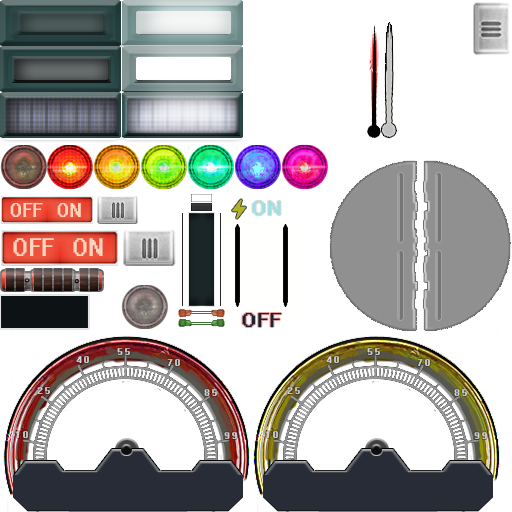
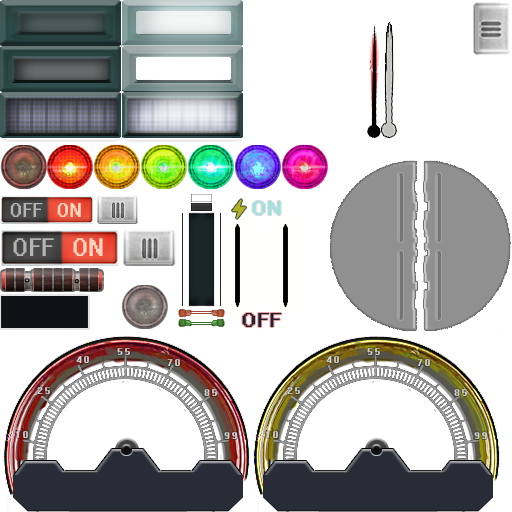
Changes to reactor interface to make it adapt better to different text lengths

Changed region(s): [[0.0, 0.375, 0.125, 0.5312]]

diff --git a/Barotrauma/BarotraumaClient/Source/Items/Components/Machines/Reactor.cs b/Barotrauma/BarotraumaClient/Source/Items/Components/Machines/Reactor.cs
@@ -110,8 +110,8 @@ namespace Barotrauma.Items.Components
             
             GUIFrame columnLeft = new GUIFrame(new RectTransform(new Vector2(0.2f, 1.0f), paddedFrame.RectTransform), style: null);
             leftHUDColumn = columnLeft;
-            GUIFrame columnMid = new GUIFrame(new RectTransform(new Vector2(0.45f, 1.0f), paddedFrame.RectTransform), style: null);
-            GUIFrame columnRight = new GUIFrame(new RectTransform(new Vector2(0.35f, 1.0f), paddedFrame.RectTransform), style: null);
+            GUIFrame columnMid = new GUIFrame(new RectTransform(new Vector2(0.5f, 1.0f), paddedFrame.RectTransform), style: null);
+            GUIFrame columnRight = new GUIFrame(new RectTransform(new Vector2(0.3f, 1.0f), paddedFrame.RectTransform), style: null);
 
             //----------------------------------------------------------
             //left column
@@ -136,6 +136,7 @@ namespace Barotrauma.Items.Components
                 btnText.SetTextPos();
                 warningButtons.Add(warningTexts[i], warningBtn);
             }
+            GUITextBlock.AutoScaleAndNormalize(warningButtons.Values.Select(b => b.TextBlock));
 
             inventoryContainer = new GUIFrame(new RectTransform(new Vector2(1.0f, 0.45f), columnLeft.RectTransform, Anchor.BottomLeft), style: null);
 
@@ -143,33 +144,37 @@ namespace Barotrauma.Items.Components
             //mid column
             //----------------------------------------------------------
             
-            criticalHeatWarning = new GUITickBox(new RectTransform(new Point(30, 30), columnMid.RectTransform),
+            criticalHeatWarning = new GUITickBox(new RectTransform(new Point(columnMid.Rect.Width / 3, 30), columnMid.RectTransform),
                 TextManager.Get("ReactorWarningCriticalTemp"), font: GUI.SmallFont, style: "IndicatorLightRed")
             {
                 CanBeFocused = false
             };
-            lowTemperatureWarning = new GUITickBox(new RectTransform(new Point(30, 30), columnMid.RectTransform) { RelativeOffset = new Vector2(0.3f, 0.0f) },
+            lowTemperatureWarning = new GUITickBox(new RectTransform(new Point(columnMid.Rect.Width / 3, 30), columnMid.RectTransform) { RelativeOffset = new Vector2(0.27f, 0.0f) },
                 TextManager.Get("ReactorWarningCriticalLowTemp"), font: GUI.SmallFont, style: "IndicatorLightRed")
             {
                 CanBeFocused = false
             };
-            criticalOutputWarning = new GUITickBox(new RectTransform(new Point(30, 30), columnMid.RectTransform) { RelativeOffset = new Vector2(0.75f, 0.0f) },
+            criticalOutputWarning = new GUITickBox(new RectTransform(new Point(columnMid.Rect.Width / 3, 30), columnMid.RectTransform) { RelativeOffset = new Vector2(0.66f, 0.0f) },
                 TextManager.Get("ReactorWarningCriticalOutput"), font: GUI.SmallFont, style: "IndicatorLightRed")
             {
                 CanBeFocused = false
             };
+
+            GUITextBlock.AutoScaleAndNormalize(criticalHeatWarning.TextBlock, lowTemperatureWarning.TextBlock, criticalOutputWarning.TextBlock);
+
+            float gaugeOffset = criticalHeatWarning.Rect.Height / (float)columnMid.Rect.Height + 0.05f;
             
-            new GUITextBlock(new RectTransform(new Vector2(0.5f, 0.05f), columnMid.RectTransform) { RelativeOffset = new Vector2(0.0f, 0.25f) },
+            new GUITextBlock(new RectTransform(new Vector2(0.5f, 0.05f), columnMid.RectTransform) { RelativeOffset = new Vector2(0.0f, gaugeOffset) },
                 TextManager.Get("ReactorFissionRate"));
-            new GUICustomComponent(new RectTransform(new Vector2(0.5f, 0.5f), columnMid.RectTransform) { RelativeOffset = new Vector2(0.0f, 0.3f) },
+            new GUICustomComponent(new RectTransform(new Vector2(0.5f, 0.5f), columnMid.RectTransform) { RelativeOffset = new Vector2(0.0f, gaugeOffset + 0.05f) },
                 DrawFissionRateMeter, null)
             {
                 ToolTip = TextManager.Get("ReactorTipFissionRate")
             };
 
-            new GUITextBlock(new RectTransform(new Vector2(0.5f, 0.05f), columnMid.RectTransform, Anchor.TopRight) { RelativeOffset = new Vector2(0.0f, 0.25f) },
+            new GUITextBlock(new RectTransform(new Vector2(0.5f, 0.05f), columnMid.RectTransform, Anchor.TopRight) { RelativeOffset = new Vector2(0.0f, gaugeOffset) },
                 TextManager.Get("ReactorTurbineOutput"));
-            new GUICustomComponent(new RectTransform(new Vector2(0.5f, 0.5f), columnMid.RectTransform, Anchor.TopRight) { RelativeOffset = new Vector2(0.0f, 0.3f) },
+            new GUICustomComponent(new RectTransform(new Vector2(0.5f, 0.5f), columnMid.RectTransform, Anchor.TopRight) { RelativeOffset = new Vector2(0.0f, gaugeOffset + 0.05f) },
                 DrawTurbineOutputMeter, null)
             {
                 ToolTip = TextManager.Get("ReactorTipTurbineOutput")
@@ -209,12 +214,13 @@ namespace Barotrauma.Items.Components
             //right column
             //----------------------------------------------------------
 
-            new GUITextBlock(new RectTransform(new Point(100, 20), columnRight.RectTransform), TextManager.Get("ReactorAutoTemp"))
+            new GUITextBlock(new RectTransform(new Vector2(0.7f, 0.1f), columnRight.RectTransform), TextManager.Get("ReactorAutoTemp"))
             {
-                ToolTip = TextManager.Get("ReactorTipAutoTemp")
+                ToolTip = TextManager.Get("ReactorTipAutoTemp"),
+                AutoScale = true
             };
-            autoTempSlider = new GUIScrollBar(new RectTransform(new Point(100, 30), columnRight.RectTransform) { AbsoluteOffset = new Point(0, 30) },
-                barSize: 0.5f, style: "OnOffSlider")
+            autoTempSlider = new GUIScrollBar(new RectTransform(new Vector2(0.6f, 0.15f), columnRight.RectTransform) { RelativeOffset = new Vector2(0.0f, 0.1f) },
+                barSize: 0.55f, style: "OnOffSlider")
             {
                 ToolTip = TextManager.Get("ReactorTipAutoTemp"),
                 IsBooleanSwitch = true,
@@ -226,8 +232,10 @@ namespace Barotrauma.Items.Components
                     return true;
                 }
             };
-            
-            onOffSwitch = new GUIScrollBar(new RectTransform(new Point(50, 80), columnRight.RectTransform, Anchor.TopRight),
+            var sliderSprite = autoTempSlider.Frame.Style.Sprites[GUIComponent.ComponentState.None].First();
+            autoTempSlider.RectTransform.MaxSize = sliderSprite.Sprite.size.ToPoint();
+
+            onOffSwitch = new GUIScrollBar(new RectTransform(new Vector2(0.4f, 0.3f), columnRight.RectTransform, Anchor.TopRight),
                 barSize: 0.2f, style: "OnOffLever")
             {
                 IsBooleanSwitch = true,
@@ -240,6 +248,8 @@ namespace Barotrauma.Items.Components
                     return true;
                 }
             };
+            var switchSprite = onOffSwitch.Frame.Style.Sprites[GUIComponent.ComponentState.None].First();
+            onOffSwitch.RectTransform.MaxSize = switchSprite.Sprite.size.ToPoint();
             
             var lever = onOffSwitch.GetChild<GUIButton>();
             lever.RectTransform.NonScaledSize = new Point(lever.Rect.Width + 30, lever.Rect.Height);

diff --git a/Barotrauma/BarotraumaClient/Source/GUI/GUITextBlock.cs b/Barotrauma/BarotraumaClient/Source/GUI/GUITextBlock.cs
@@ -344,6 +344,14 @@ namespace Barotrauma
         /// <summary>
         /// Set the text scale of the GUITextBlocks so that they all use the same scale and can fit the text within the block.
         /// </summary>
+        public static void AutoScaleAndNormalize(params GUITextBlock[] textBlocks)
+        {
+            AutoScaleAndNormalize(textBlocks.AsEnumerable<GUITextBlock>());
+        }
+
+        /// <summary>
+        /// Set the text scale of the GUITextBlocks so that they all use the same scale and can fit the text within the block.
+        /// </summary>
         public static void AutoScaleAndNormalize(IEnumerable<GUITextBlock> textBlocks)
         {
             if (!textBlocks.Any()) { return; }
